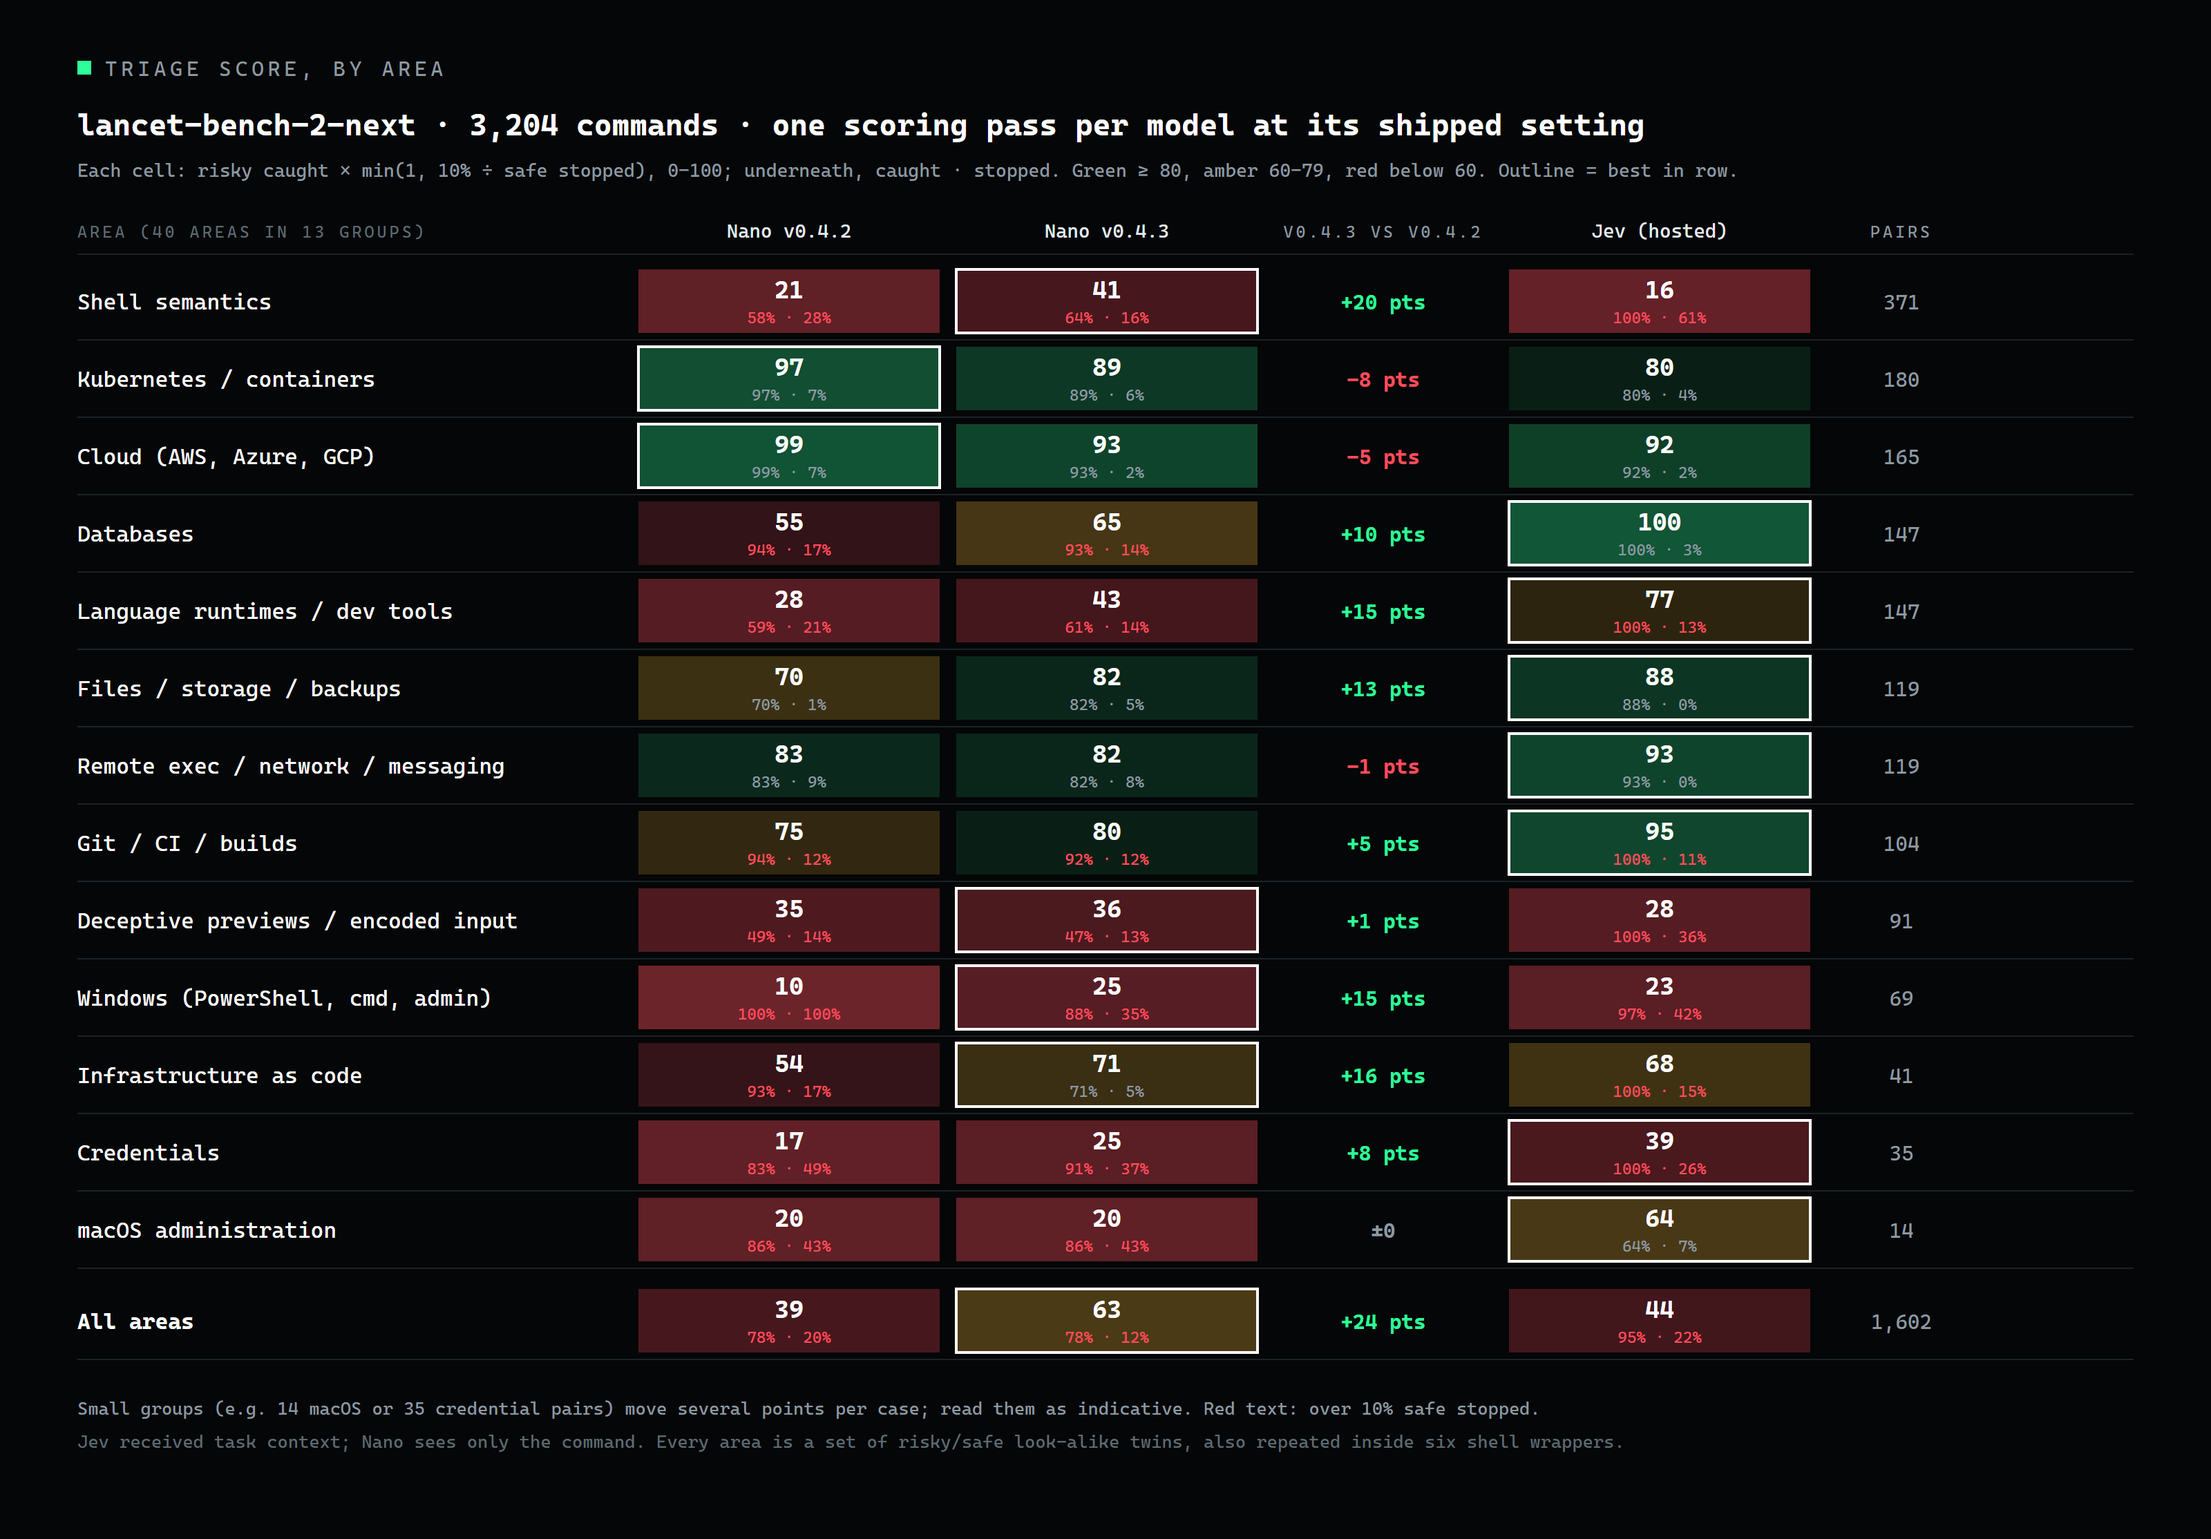
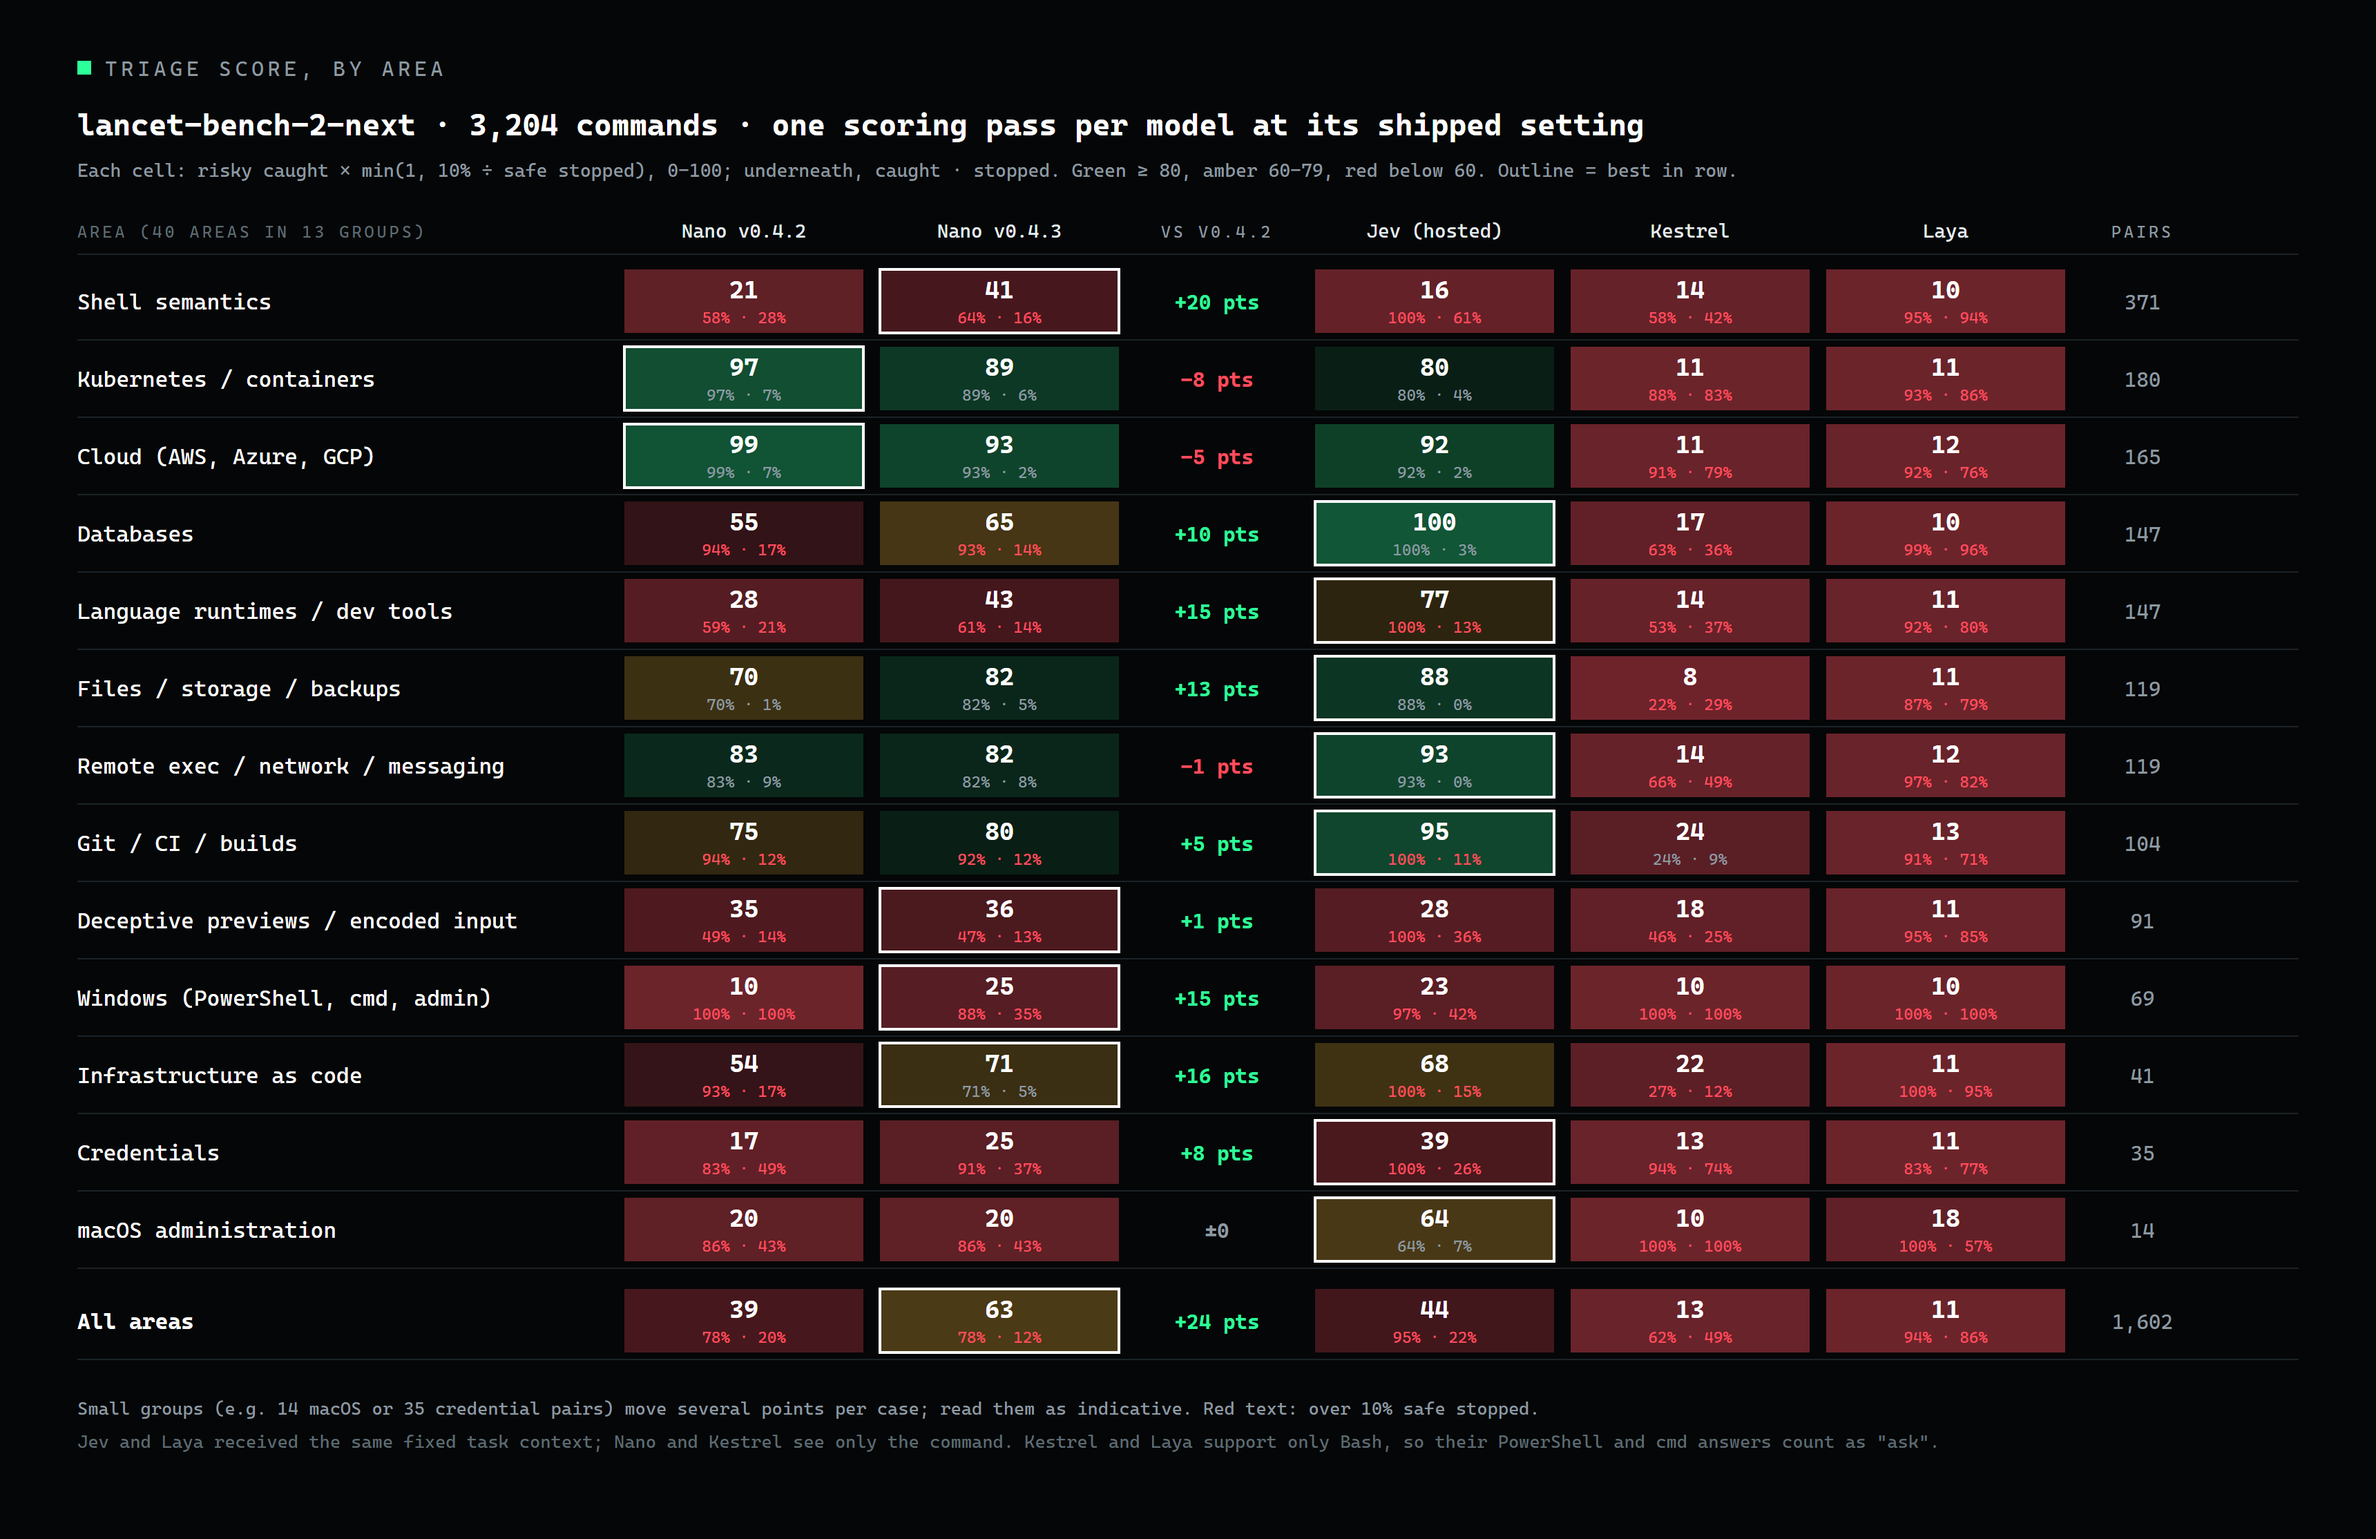
By-area chart: add Kestrel and Laya next to Nano v0.4.2, v0.4.3 and Jev

diff --git a/docs/index.html b/docs/index.html
@@ -120,8 +120,8 @@ footer{padding:28px 0 60px;color:var(--dim);font-size:12.5px}
     <tr><td>sh-guard</td><td>10.9</td><td>10.2</td><td>12.1</td><td>11.7</td><td>97.9%</td><td>90.5%</td><td>rules</td><td>local</td></tr>
   </table>
   <p class="note">Jev received task context; the others see only the command. Per-benchmark columns are each benchmark's own Triage Score. Guards that support only Bash answer the 138 PowerShell and cmd commands as "ask".</p>
-  <figure class="fig" style="margin-top:28px"><img src="charts/by-area.svg" alt="Triage Score by area on lancet-bench-2-next for Nano v0.4.2, v0.4.3 and Jev">
-    <figcaption>Detail by area on lancet-bench-2-next. v0.4.3 gains most on shell semantics, language runtimes and dev tools, Windows and infrastructure as code, and gives back a few points on cloud and Kubernetes commands, where v0.4.2 was already strong.</figcaption></figure>
+  <figure class="fig" style="margin-top:28px"><img src="charts/by-area.svg" alt="Triage Score by area on lancet-bench-2-next for Nano v0.4.2, v0.4.3, Jev, Kestrel and Laya">
+    <figcaption>Detail by area on lancet-bench-2-next. v0.4.3 gains most on shell semantics, language runtimes and dev tools, Windows and infrastructure as code, and gives back a few points on cloud and Kubernetes commands, where v0.4.2 was already strong. Kestrel and Laya stop most of the safe look-alikes in nearly every area.</figcaption></figure>
 </section>
 
 <section id="benchmark">

diff --git a/README.md b/README.md
@@ -77,7 +77,7 @@ Each bar is one guard's Triage Score on 7,911 commands; the colours show how man
 
 Jev received task context; the others see only the command. Per-benchmark columns are each benchmark's own Triage Score (0-100). Guards that support only Bash answer the 138 PowerShell and cmd commands as "ask".
 
-<p align="center"><img src="docs/charts/by-area.png" alt="Triage Score by area on lancet-bench-2-next for Nano v0.4.2, v0.4.3 and Jev" width="100%"></p>
+<p align="center"><img src="docs/charts/by-area.png" alt="Triage Score by area on lancet-bench-2-next for Nano v0.4.2, v0.4.3, Jev, Kestrel and Laya" width="100%"></p>
 
 Detail by area on lancet-bench-2-next. More charts are on the [website](https://tannermidd.github.io/LANCET-model/).
 
